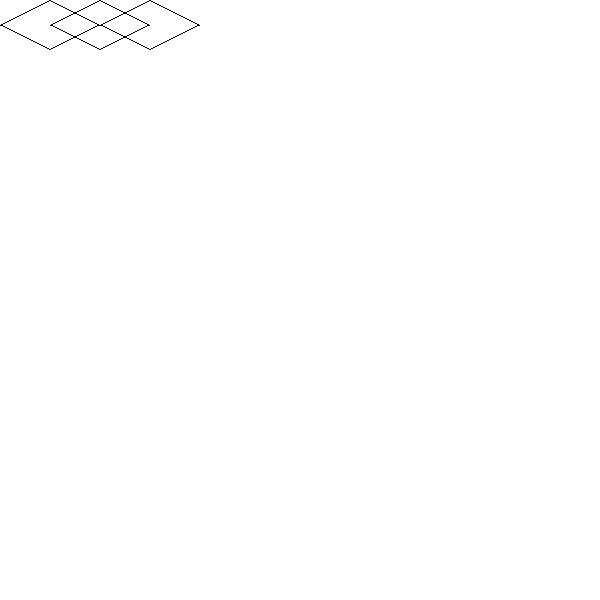
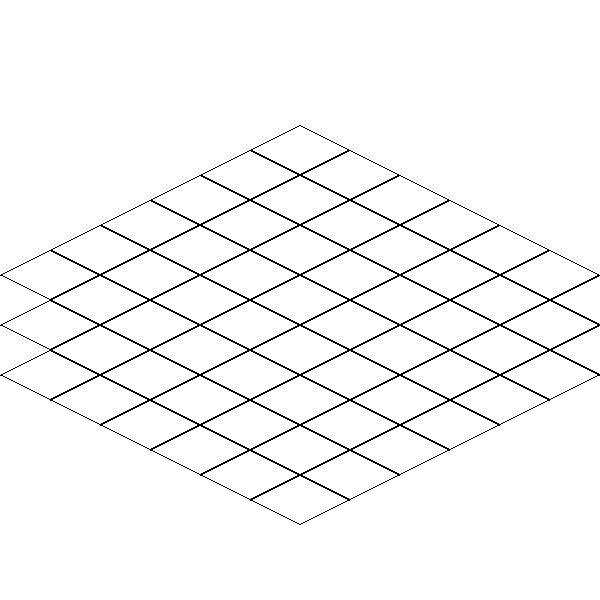
Basic map renderer

diff --git a/sprite.py b/sprite.py
@@ -7,6 +7,7 @@ class Sprite():
         self.img = img
         self.width, self.height, self.data = Sprite.getSpriteData(self.img)
         self.spriteDrawer = spriteDrawer
+        print(self.width, self.height)
 
     def updateSprite(self, newSprite):
         self.width, self.height, self.data = Sprite.getSpriteData(newSprite)
@@ -23,7 +24,7 @@ class Sprite():
     @staticmethod
     def getSpriteData(img):
         data = np.asarray(img)
-        return len(data), len(data[0]), data
+        return len(data[0]), len(data), data
 
 class SpriteDrawer:
     ignorableColor = [255,255,255]
@@ -36,14 +37,19 @@ class SpriteDrawer:
 
     def drawSprite(self, sprite, x, y):
         screenData = np.asarray(self.screen).copy()
+        screenWidth = len(screenData)
+        screenHeight = len(screenData[0])
+
         spriteData = sprite.getData()
         
-        rows, cols = sprite.getSize()
+        cols, rows = sprite.getSize()
 
         for row in range(rows):
-            for col in range(cols):
-                if spriteData[row,col][:-1].tolist() != SpriteDrawer.ignorableColor:
-                    screenData[y + row, x + col] = spriteData[row,col][:-1]
+            if(0<=y+row<=screenWidth-1):
+                for col in range(cols):
+                    if (0<=x+col<=screenHeight-1 and
+                        spriteData[row,col][:-1].tolist() != SpriteDrawer.ignorableColor):
+                        screenData[y + row, x + col] = spriteData[row,col][:-1]
         newScreen = Image.fromarray(screenData, mode = "RGB")
         self.updateScreen(newScreen)
 

diff --git a/map_render.py b/map_render.py
@@ -1,0 +1,35 @@
+from PIL import Image
+import numpy as np
+from sprite import SpriteDrawer, Sprite
+
+class MapRenderer:
+    # TO-DO: Add map 2d list with data on the tiles
+    @staticmethod
+    def render(tile, screenSize, mapSize):
+        rows, cols = mapSize
+        tileWidth, tileHeight = tile.getSize()
+
+        screenWidth = screenSize[0]
+        screenHeight = screenSize[1]
+
+        middleX = screenWidth//2
+        middleY = screenHeight//2
+
+        xEdgeTilesToCenter = middleX//tileWidth
+        yEdgeTilesToCenter = middleY//tileHeight
+
+        # Adding tileWidth//2 and tileHeight//2 because programs draws tiles from edge, not center
+        startX = middleX-((xEdgeTilesToCenter//2)*tileWidth) + tileWidth//2
+        startY = middleY-((yEdgeTilesToCenter//2)*tileHeight) - tileHeight//2
+
+        for row in range(rows):
+            # if row*tileHeight>= screenHeight: continue
+            for col in range(cols):
+                screenX = (row - col) * tileWidth//2;
+                screenY = (row + col) * tileHeight//2;
+                if 0<=startX + screenX<=screenWidth and 0<=startY + screenY<=screenHeight:
+                    tile.drawSprite(startX + screenX, startY + screenY)
+
+
+        # sprite = Sprite(app.tileImage, app.spriteDrawer)
+        # sprite.drawSprite(defaultX + screenX, defaultY + screenY)

diff --git a/Main.py b/Main.py
@@ -2,6 +2,7 @@ from cmu_graphics import *
 from PIL import Image
 import numpy as np
 from sprite import SpriteDrawer, Sprite
+from map_render import MapRenderer
 
 
 def onAppStart(app):
@@ -19,7 +20,6 @@ def onAppStart(app):
     
 def redrawAll(app):
     drawImage("screen.jpg", 0, 0)
-    drawRect(100, 100, 100, 50)
 
 def loadScreen(app, img):
     if img == None:
@@ -30,9 +30,7 @@ def loadScreen(app, img):
 
 def onKeyPress(app,key):
     if key.isdigit() and 1 <=int(key) <= 3:
-        sprite = Sprite(app.tileImage, app.spriteDrawer)
-        sprite.drawSprite(100*(int(key)-1),0)
-        # app.spriteDrawer.drawSprite(app.tileImage, 100*(int(key)-1),0)
-
+        tile = Sprite(app.tileImage, app.spriteDrawer)
+        MapRenderer.render(tile, (app.width,app.height), (8,8))
 runApp()
 
